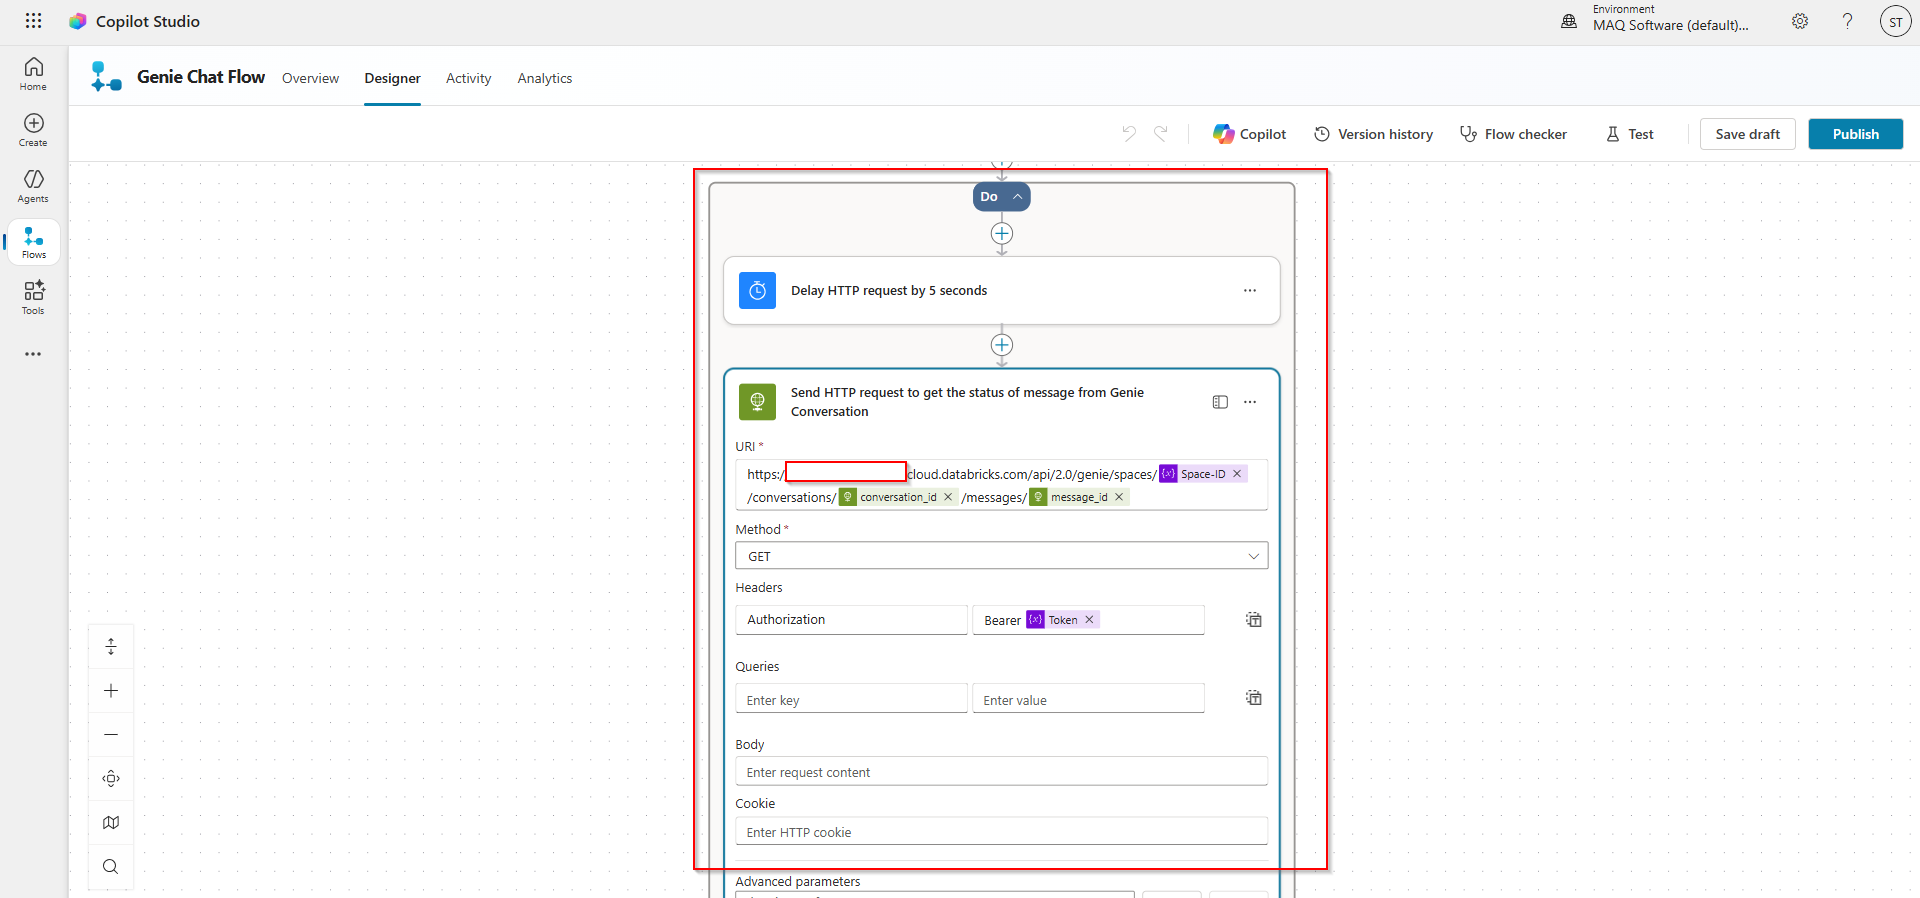
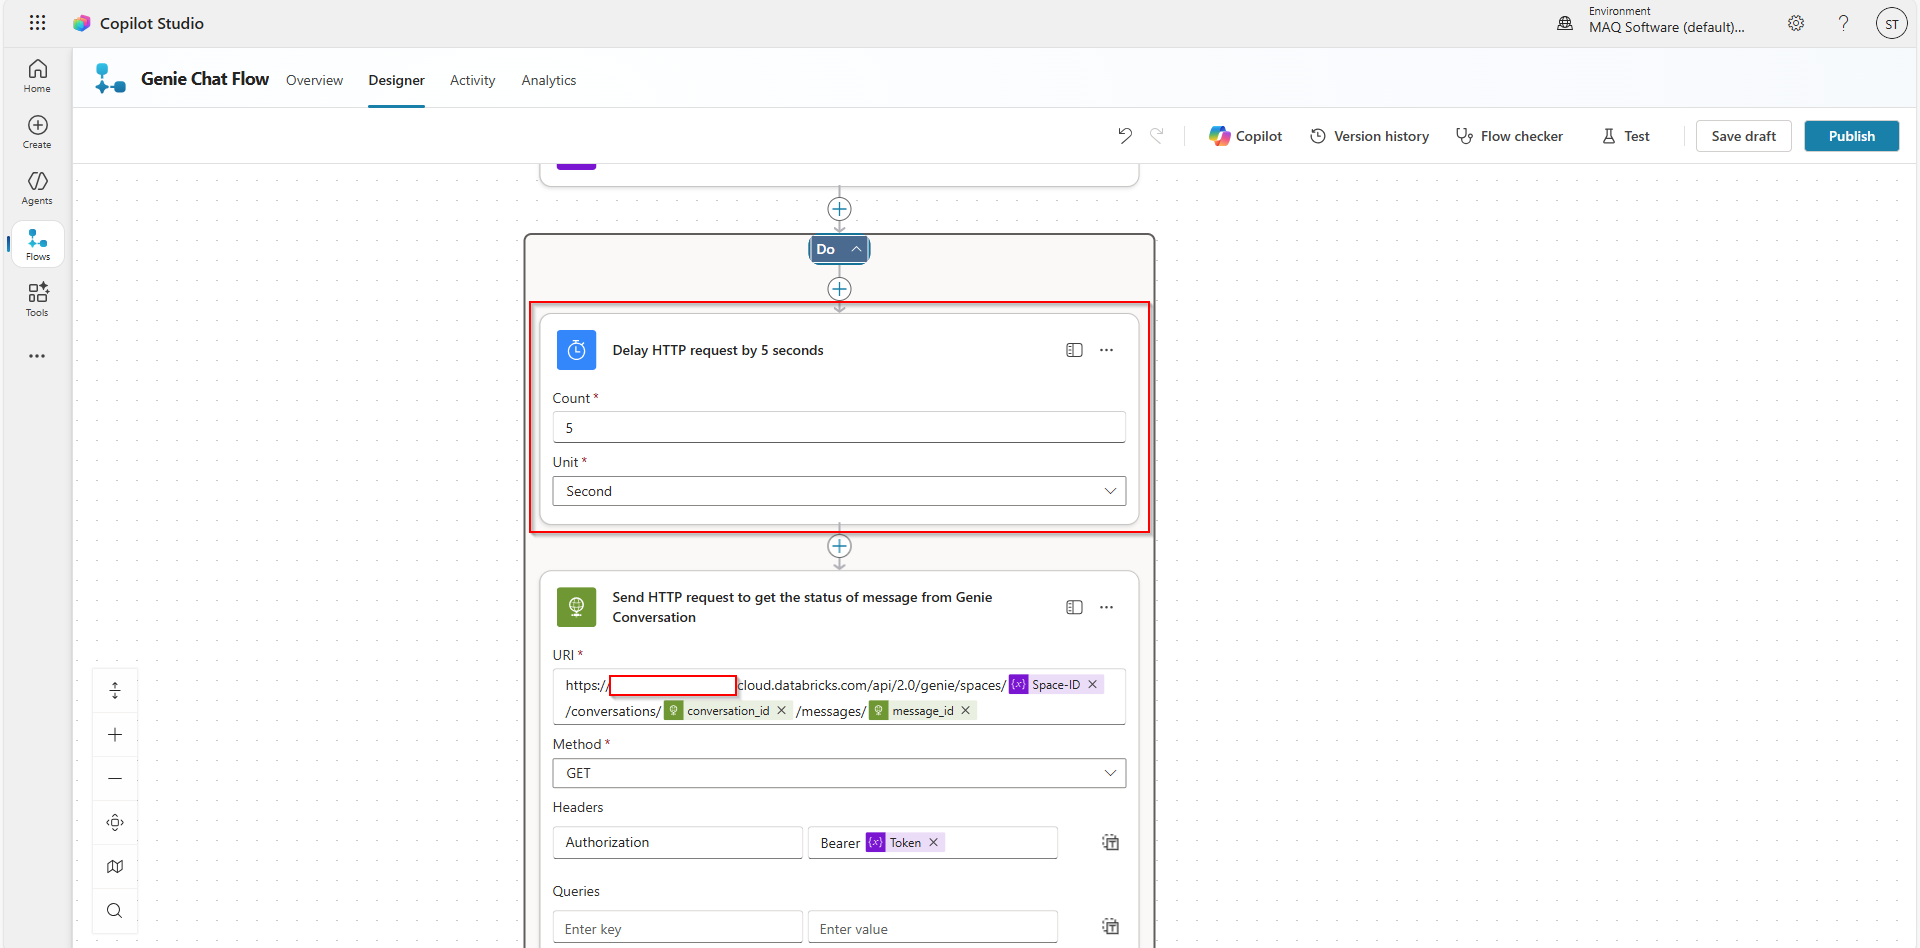
Updated the flows setup guide

diff --git a/docs/agent-steps/Copilot_Studio_Agent_Flow_Setup.md b/docs/agent-steps/Copilot_Studio_Agent_Flow_Setup.md
@@ -11,9 +11,9 @@
 | 5 | Add an action to send an HTTP **POST** request to the Databricks Genie API to start the conversation:<br>- **URL:** `<Your Databricks endpoint>/api/2.0/genie/spaces/<Space-ID>/start-conversation`<br>- **Header:** `Authorization: Bearer <Token variable>`<br>- **Body:** JSON with `content: User Query` | ![step-5.1](../../screenshots/Copilot_Studio_Agent_Flow_Setup/step-5.1.png)<br>![step-5.2](../../screenshots/Copilot_Studio_Agent_Flow_Setup/step-5.2.png) |
 | 6 | Add an action to send an HTTP **GET** request to Databricks Genie API to get the status of the conversation message (use `conversation_id` and `message_id` from previous step):<br>- **URL:** `<Your Databricks endpoint>/api/2.0/genie/spaces/<Space-ID>/conversations/<conversation_id>/messages/<message_id>`<br>- **Header:** `Authorization: Bearer <Token variable>` | ![step-6](../../screenshots/Copilot_Studio_Agent_Flow_Setup/step-6.png) |
 | 7 | Add **Initialize Variable** action to store the status of the conversation message. | ![step-7](../../screenshots/Copilot_Studio_Agent_Flow_Setup/step-7.png) |
-| 8 | Add an action to send an HTTP **GET** request to Databricks Genie API to get the status of the conversation message every 5 seconds until the status is **SUCCEEDED** (add a Do until action to check the status):<br>- **URL:** `<Your Databricks endpoint>/api/2.0/genie/spaces/<Space-ID>/conversations/<conversation_id>/messages/<message_id>`<br>- **Header:** `Authorization: Bearer <Token variable>` | ![step-8.1](../../screenshots/Copilot_Studio_Agent_Flow_Setup/step-8.1.png)<br>![step-8.2](../../screenshots/Copilot_Studio_Agent_Flow_Setup/step-8.2.png) |
+| 8 | Add an action to send an HTTP **GET** request to Databricks Genie API to get the status of the conversation message every 5 seconds until the status is **SUCCEEDED**: <br>&nbsp;&nbsp;&nbsp;1. Add a **Do until** action to check the status. <br>&nbsp;&nbsp;&nbsp;2. Inside the **Do until** action, add a **Delay** action (not **Delay until** action) to keep a delay of 5 seconds between the pings. <br>&nbsp;&nbsp;&nbsp;3. Add a **HTTP** action from the HTTP section to send the get request from the Genie Conversation API using the following details:<br>&nbsp;&nbsp;&nbsp;&nbsp;&nbsp;&nbsp;- **URL:** `<Your Databricks endpoint>/api/2.0/genie/spaces/<Space-ID>/conversations/<conversation_id>/messages/<message_id>`<br>&nbsp;&nbsp;&nbsp;&nbsp;&nbsp;&nbsp;- **Header:** `Authorization: Bearer <Token variable>`<br>&nbsp;&nbsp;&nbsp;4. Add a **Set Variable** action to update the Status variable with the current value of HTTP action. <br>&nbsp;&nbsp;&nbsp;5. Update the until part with **Status** is equal to COMPLETED. | ![step-8.1](../../screenshots/Copilot_Studio_Agent_Flow_Setup/step-8.1.png)<br>![step-8.2](../../screenshots/Copilot_Studio_Agent_Flow_Setup/step-8.2.png)![step-8.3](../../screenshots/Copilot_Studio_Agent_Flow_Setup/step-8.3.png)<br>![step-8.4](../../screenshots/Copilot_Studio_Agent_Flow_Setup/step-8.4.png) |
 | 9 | Add an action to send an HTTP **GET** request to Databricks Genie API to get the message content:<br>- **URL:** `<Your Databricks endpoint>/api/2.0/genie/spaces/<Space-ID>/conversations/<conversation_id>/messages/<message_id>`<br>- **Header:** `Authorization: Bearer <Token variable>` | ![step-9](../../screenshots/Copilot_Studio_Agent_Flow_Setup/step-9.png) |
-| 10 | Iterate over the message contents fetched from the Databricks Genie API by using an  **Apply to each** action (We get 2 types of message content from the Genie API: text and query. For simplicity, we are focusing only on the **text** part by using a **Switch** action.):<br>- If the message content type is **text**, store it in the **Text Output** variable. | ![step-10.1.1](../../screenshots/Copilot_Studio_Agent_Flow_Setup/step-10.1.1.png)<br>![step-10.1.2](../../screenshots/Copilot_Studio_Agent_Flow_Setup/step-10.1.2.png)<br>![step-10.2.1](../../screenshots/Copilot_Studio_Agent_Flow_Setup/step-10.2.1.png)<br>![step-10.2.2](../../screenshots/Copilot_Studio_Agent_Flow_Setup/step-10.2.2.png) |
+| 10 | We get 2 types of message content from the Genie API: text and query. For simplicity, we are focusing only on the **text** part and will be just passing the **query** as is to the user. <br>&nbsp;&nbsp;&nbsp;1. Add an **Apply to each** action to iterate over the message contents fetched from the Databricks Genie API. <br>&nbsp;&nbsp;&nbsp;2. Add a **Compose** action for storing the result of the conditional statement as mentioned in the screenshot <br>&nbsp;&nbsp;&nbsp;3. Add a **Switch** action that checks the output of the previous Compose action. <br>&nbsp;&nbsp;&nbsp;&nbsp;&nbsp;&nbsp;- If the message content type is **text**, store it in the **Text Output** variable by adding an **Append variable** action. <br>&nbsp;&nbsp;&nbsp;&nbsp;&nbsp;&nbsp;- If the message content type is **query**, store it in the **Inline Data** variable by adding a **Set variable** action. | ![step-10.1](../../screenshots/Copilot_Studio_Agent_Flow_Setup/step-10.1.png)<br>![step-10.2](../../screenshots/Copilot_Studio_Agent_Flow_Setup/step-10.2.png)<br>![step-10.3](../../screenshots/Copilot_Studio_Agent_Flow_Setup/step-10.3.png)<br>![step-10.4](../../screenshots/Copilot_Studio_Agent_Flow_Setup/step-10.4.png)<br>![step-10.5](../../screenshots/Copilot_Studio_Agent_Flow_Setup/step-10.5.png) |
 | 11 | Respond with a structured JSON output to the Agent containing **User Query**, **Text Output**, and **Inline Data**. | ![step-11](../../screenshots/Copilot_Studio_Agent_Flow_Setup/step-11.png) |
 | 12 | Click on **Save draft** and then **Publish**. | ![step-12](../../screenshots/Copilot_Studio_Agent_Flow_Setup/step-12.png) |
 

diff --git a/docs/agent-steps/Databricks_Genie.md b/docs/agent-steps/Databricks_Genie.md
@@ -6,7 +6,7 @@
 | Step | Description | Screenshot |
 |------|-------------|------------|
 | 1 | Open your Databricks workspace. | ![step-1.1](../../screenshots/Databricks_Genie/step-1.1.png) |
-| 2 | Click on your **Profile** (top left corner). | ![step-1.2](../../screenshots/Databricks_Genie/step-1.2.png) |
+| 2 | Click on your **Profile** (top right corner). | ![step-1.2](../../screenshots/Databricks_Genie/step-1.2.png) |
 | 3 | Click on **Settings**. | ![step-1.3](../../screenshots/Databricks_Genie/step-1.3.png) |
 | 4 | Click on **Developer** under the User tab. | ![step-1.4](../../screenshots/Databricks_Genie/step-1.4.png) |
 | 5 | Click on **Manage** for Access Token. | ![step-1.5](../../screenshots/Databricks_Genie/step-1.5.png) |
